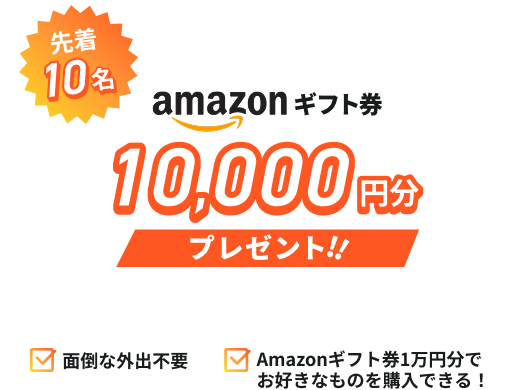
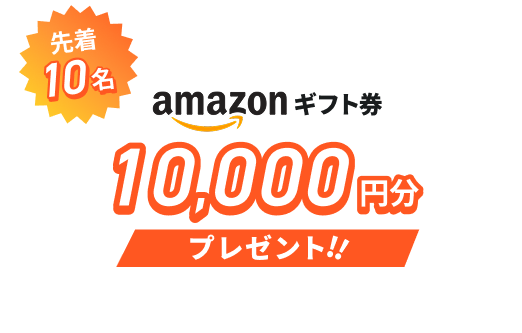
last-section

diff --git a/src/components/lp/main.tsx b/src/components/lp/main.tsx
@@ -1,3 +1,4 @@
+import { CheckIcon } from "@/assets/CheckIcon";
 import FixedButton from "../common/FixedButton";
 import { Carousel, CarouselContent, CarouselItem } from "../ui/carousel";
 import Autoplay from "embla-carousel-autoplay";
@@ -414,37 +415,113 @@ export default function Main({
           </div>
         </div>
       </section>
-      <section className="bg-token-main-100 py-10">
+      <section className="bg-token-main-100">
         <div
-          className="relative w-full flex flex-col items-center justify-center"
+          className="relative w-full flex flex-col items-center justify-center max-w-[1000px] mx-auto"
           style={{
             backgroundImage: `url(${import.meta.env.BASE_URL}LP/bg.png)`,
             backgroundSize: "cover",
             backgroundPosition: "center",
           }}
         >
-          <h2 className="text-center text-token-mono-700 font-bold text-[28px] mb-2">
-            <span className="block text-[36px] text-transparent bg-gradation-200 bg-clip-text leading-tight">
-              ご自宅で
-            </span>
-            <br />
-            <span className="block text-[36px] text-transparent bg-gradation-200 bg-clip-text leading-tight">
-              補助金活用診断を
-              <br />
-              受けると
-            </span>
-          </h2>
-          <img
-            src={`${import.meta.env.BASE_URL}LP/amazon.png`}
-            alt="Amazonギフト券プレゼント"
-            className="max-w-[420px] w-full h-auto drop-shadow-lg"
-          />
+          <div className="px-4 pt-8">
+            <h2 className="text-center font-bold mb-2">
+              <span className="block text-[20px] text-token-mono-700 flex justify-center">
+                <svg width="100" height="28" viewBox="0 0 100 28">
+                  <text
+                    x="50"
+                    y="22"
+                    fontSize="20"
+                    fontWeight="bold"
+                    stroke="#fff"
+                    strokeWidth="6"
+                    paintOrder="stroke"
+                    fill="#191C1D"
+                    textAnchor="middle"
+                    style={{ fontFamily: "Noto Sans JP, sans-serif" }}
+                  >
+                    ご自宅で
+                  </text>
+                </svg>
+              </span>
+              <span className="block text-[32px] flex flex-col items-center">
+                <svg width="260" height="40" viewBox="0 0 260 40">
+                  <defs>
+                    <linearGradient
+                      id="lp-diagnosis-title-gradation-svg"
+                      x1="0"
+                      y1="0"
+                      x2="1"
+                      y2="0"
+                    >
+                      <stop offset="0%" stopColor="#FEB970" />
+                      <stop offset="34%" stopColor="#FF6F21" />
+                      <stop offset="78%" stopColor="#FF5721" />
+                    </linearGradient>
+                  </defs>
+                  <text
+                    x="130"
+                    y="32"
+                    fontSize="32"
+                    fontWeight="bold"
+                    stroke="#fff"
+                    strokeWidth="6"
+                    paintOrder="stroke"
+                    fill="url(#lp-diagnosis-title-gradation-svg)"
+                    textAnchor="middle"
+                    style={{ fontFamily: "Noto Sans JP, sans-serif" }}
+                  >
+                    補助金活用診断を
+                  </text>
+                </svg>
+                <svg width="140" height="40" viewBox="0 0 140 40">
+                  <text
+                    x="70"
+                    y="32"
+                    fontSize="32"
+                    fontWeight="bold"
+                    stroke="#fff"
+                    strokeWidth="6"
+                    paintOrder="stroke"
+                    fill="url(#lp-diagnosis-title-gradation-svg)"
+                    textAnchor="middle"
+                    style={{ fontFamily: "Noto Sans JP, sans-serif" }}
+                  >
+                    受けると
+                  </text>
+                </svg>
+              </span>
+            </h2>
+            <img
+              src={`${import.meta.env.BASE_URL}LP/amazon.png`}
+              alt="Amazonギフト券プレゼント"
+              className="max-w-[420px] w-full h-auto"
+            />
+          </div>
         </div>
-        <p className="text-center text-token-mono-700 text-[16px] mt-6">
-          この機会に専門スタッフがご自宅に伺い、お客様にぴったりのプランをご提案させていただきます。
-          <br />
-          おうちのこと、何でもお気軽にご相談ください。
-        </p>
+        <div className="px-4 pb-8">
+          <div className="flex justify-center gap-4 lg:gap-8 mt-4">
+            <div className="flex gap-2">
+              <CheckIcon />
+              <p className="text-token-mono-700 text-[12px] font-bold lg:text-[14px] relative top-[-2px]">
+                面倒な外出不要
+              </p>
+            </div>
+            <div className="flex gap-2">
+              <CheckIcon />
+              <p className="text-token-mono-700 text-[12px] font-bold lg:text-[14px] relative top-[-5px]">
+                Amazonギフト券1万円分で
+                <br />
+                お好きなものを購入できる！
+              </p>
+            </div>
+          </div>
+          <p className="text-token-mono-700 text-[16px] font-medium mt-4 lg:text-center">
+            この機会に専門スタッフがご自宅に伺い、お客様にぴったりのプランをご提案させていただきます。
+            <br className="hidden lg:block" />
+            おうちのこと、何でもお気軽にご相談ください。
+          </p>
+        </div>
       </section>
       <FixedButton onClick={() => setStartDiagnosis(true)} showGlassIcon>
         診断スタート

diff --git a/src/assets/CheckIcon.tsx b/src/assets/CheckIcon.tsx
@@ -1,0 +1,31 @@
+export const CheckIcon = ({ className }: { className?: string }) => {
+  return (
+    <svg
+      width="19"
+      height="16"
+      viewBox="0 0 19 16"
+      fill="none"
+      xmlns="http://www.w3.org/2000/svg"
+      className={className}
+    >
+      <path
+        d="M15.167 0C15.6557 0.000102919 16.0738 0.174416 16.4219 0.522461C16.7092 0.809815 16.8766 1.14509 16.9268 1.52832L16.9668 1.48926C17.1445 1.31157 17.3553 1.22272 17.5996 1.22266C17.8441 1.22266 18.0556 1.31148 18.2334 1.48926C18.411 1.66691 18.4999 1.87786 18.5 2.12207C18.5 2.3665 18.4111 2.57809 18.2334 2.75586L16.9443 4.04492V14.2227C16.9442 14.7114 16.7699 15.1295 16.4219 15.4775C16.0738 15.8256 15.6557 15.9999 15.167 16H2.72168C2.23298 15.9999 1.81484 15.8256 1.4668 15.4775C1.11875 15.1295 0.944439 14.7114 0.944336 14.2227V1.77734C0.944439 1.28864 1.11875 0.870506 1.4668 0.522461C1.81484 0.174416 2.23298 0.000103011 2.72168 0H15.167ZM2.72168 14.2227H15.167V5.82227L10.0557 10.9336C9.87798 11.1113 9.67047 11.2001 9.43359 11.2002C9.19656 11.2002 8.98833 11.1114 8.81055 10.9336L4.98828 7.11133C4.81066 6.9336 4.72599 6.72188 4.7334 6.47754C4.7409 6.23336 4.83318 6.02236 5.01074 5.84473C5.18852 5.66695 5.40009 5.57812 5.64453 5.57812C5.88883 5.57818 6.09964 5.66708 6.27734 5.84473L9.43359 9.02246L15.167 3.28906V1.77734H2.72168V14.2227Z"
+        fill="url(#paint0_linear_486_6048)"
+      />
+      <defs>
+        <linearGradient
+          id="paint0_linear_486_6048"
+          x1="-0.109004"
+          y1="13.2667"
+          x2="15.724"
+          y2="-2.77059"
+          gradientUnits="userSpaceOnUse"
+        >
+          <stop stop-color="#FFD825" />
+          <stop offset="0.54686" stop-color="#FF9035" />
+          <stop offset="1" stop-color="#FF5721" />
+        </linearGradient>
+      </defs>
+    </svg>
+  );
+};

diff --git a/tailwind.config.js b/tailwind.config.js
@@ -69,6 +69,8 @@ export default {
           " linear-gradient(51.64deg, #FEB970 -2.78%, #FF6F21 50.39%, #FF5721 78.18%)",
         "lp-feature-title-gradation":
           "linear-gradient(53.88deg, #FEB970 22.1%, #FF6F21 48.32%, #FF5721 62.03%)",
+        "lp-diagnosis-title-gradation":
+          "linear-gradient(50.49deg, #FEB970 -50.36%, #FF6F21 33.73%, #FF5721 77.67%)",
         "border-gradation":
           "linear-gradient(256.69deg, #FFD825 -12.54%, #FC9F2C 7.07%, #FC8800 23.33%)",
       },
